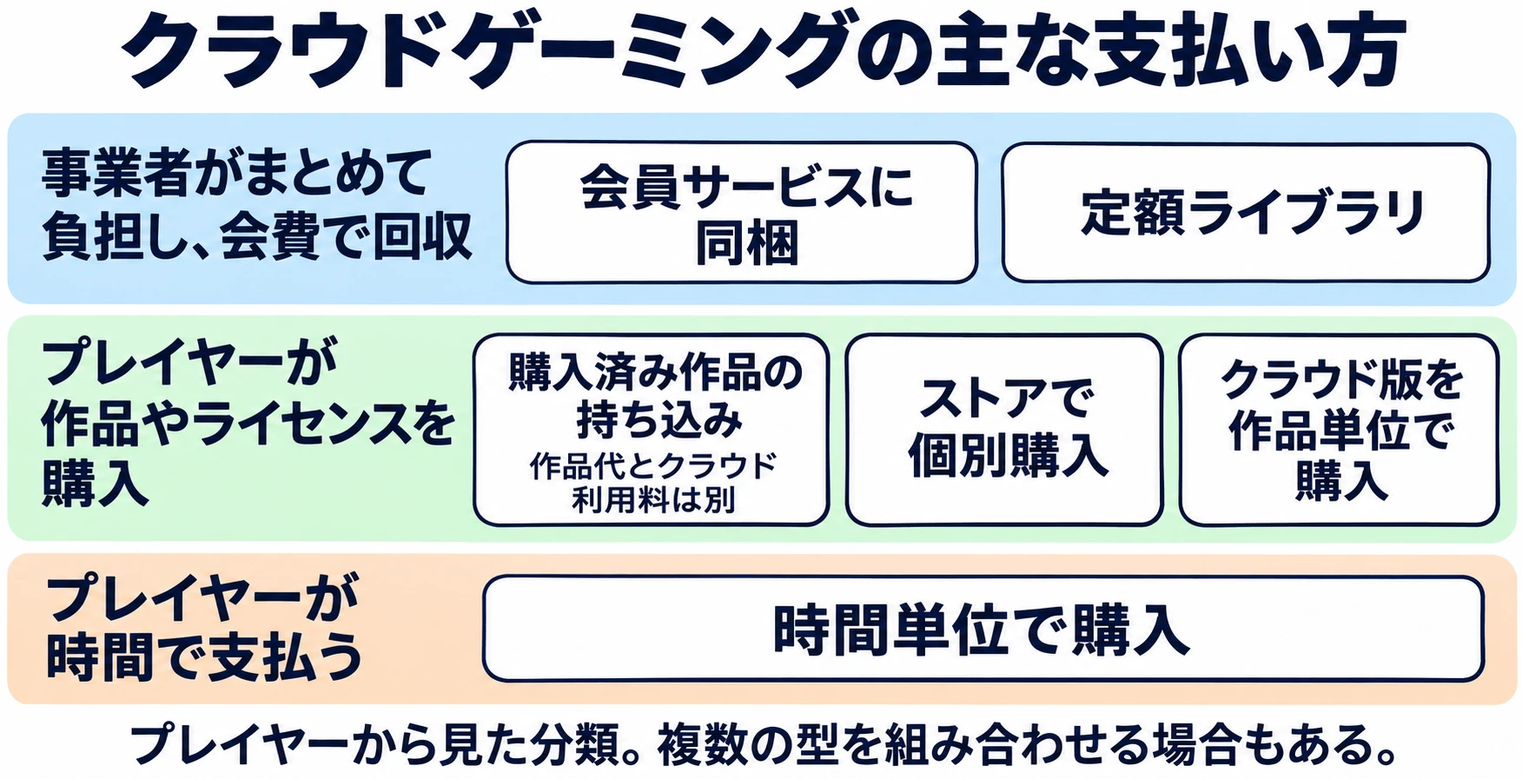
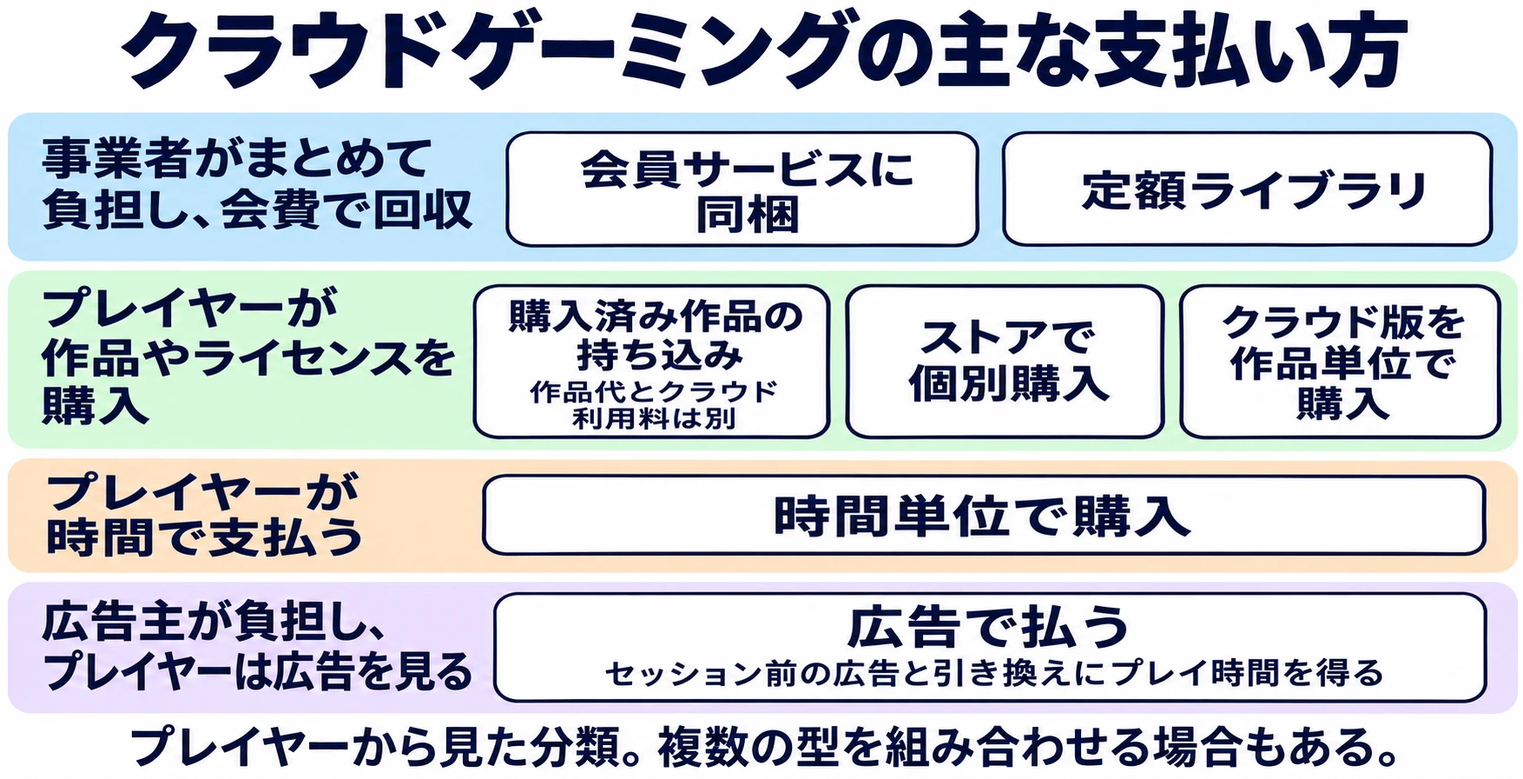
Xboxクラウドゲーミングの広告プランが発表されたので更新を行った

diff --git a/cloud-gaming-deep-dive-proofread.md b/cloud-gaming-deep-dive-proofread.md
@@ -8,7 +8,9 @@ difficulty: yellow
 
 > 2026年11月12日改版：記事全体を全面的に書き直しました。内容の変更はGitの履歴から追えます。
 
-> 料金・プラン・提供状況は2026年11月時点の情報です。
+> 2026年11月13日更新：Xboxの広告付きクラウドゲーミングの発表を反映しました。
+
+> 料金・プラン・提供状況は2026年11月13日時点の情報です。
 
 ## 1. はじめに
 
@@ -50,42 +52,53 @@ HoYoverseの『Genshin Impact · Cloud』では、有料の残高から支払う
 
 日本では、同じHoYoverseの『ゼンレスゾーンゼロ』クラウド版が2026年2月6日に正式リリースされた。配信時の案内では初回ログインで10時間の体験時間が付与され、30日分のフリーパスは2,600円だった。作品内の課金とは別に、クラウドで遊ぶ時間や期間に料金を設定した例である。[[16](#ref-16)]
 
-![クラウドゲーミングの六つの課金方式を、会費で回収する型、作品やライセンスを購入する型、時間で支払う型に整理した図。購入済み作品の持ち込みでは作品代とクラウド利用料が別になる](image/cloud-gaming-payment-models.webp)
+### 広告で払う
 
-六つの型は、プレイヤーから見て何に代金を払うかで分けたものだ。会費と作品代、定額と時間枠のように、複数の型を組み合わせるサービスもある。事業者間で費用をどう分けるかは、購入画面からは分からない。
+プレイヤーが代金の代わりに広告を見て、遊ぶ時間を得る型もある。GeForce NOWの無料会員は、ゲームを選んだ後、各セッションの開始前に最長2分のビデオ広告を見る。広告はプレイ中には表示されない。[[6](#ref-6)]
+
+Xboxは2026年7月23日、Xbox Insider向けに、所有する一部の作品を広告付きで無料でストリーミングできる試験を始めた。1回のプレイは1時間までで、広告はプレイの前に流れる。11月12日には、Microsoftの広告事業が広告主向けに「XBOX Video for Brands」を発表した。スキップできない3分間の広告を見ると30分間プレイでき、Game Passへの加入は要らない。対象作品、提供地域、一般向けの開始日は示されておらず、日本で提供されるかも発表されていない。[[17](#ref-17)][[18](#ref-18)][[19](#ref-19)]
+
+この型では、サーバー代の一部を広告主が負担し、プレイヤーは広告を見る時間で支払う。
+
+![クラウドゲーミングの七つの課金方式を、会費で回収する型、作品やライセンスを購入する型、時間で支払う型、広告で払う型に整理した図。購入済み作品の持ち込みでは作品代とクラウド利用料が別になる](image/cloud-gaming-payment-models.webp)
+
+七つの型は、プレイヤーから見て何に代金を払うかで分けたものだ。会費と作品代、定額と時間枠のように、複数の型を組み合わせるサービスもある。事業者間で費用をどう分けるかは、購入画面からは分からない。
 
 | 型と例 | 誰が何にいくら払うか | プレイ時間の上限・利用期限 |
 | --- | --- | --- |
-| 会員サービスに同梱（PS Plus プレミアム） | プレイヤーが会員特典一式に月1,550円（日本、1か月利用権）[[17](#ref-17)]。購入済み作品を使う場合の作品代は別 | 公式プラン案内に月間枠の記載なし。会員資格が必要 [[3](#ref-3)] |
-| 定額ライブラリ（Game Pass） | プレイヤーがカタログなどに月会費。日本ではEssentialが850円、Premiumが1,300円、Ultimateが1,550円 | 通常3プランに月間枠あり。追加時間は別売り [[18](#ref-18)][[19](#ref-19)] |
+| 会員サービスに同梱（PS Plus プレミアム） | プレイヤーが会員特典一式に月1,550円（日本、1か月利用権）[[20](#ref-20)]。購入済み作品を使う場合の作品代は別 | 公式プラン案内に月間枠の記載なし。会員資格が必要 [[3](#ref-3)] |
+| 定額ライブラリ（Game Pass） | プレイヤーがカタログなどに月会費。日本ではEssentialが850円、Premiumが1,300円、Ultimateが1,550円 | 通常3プランに月間枠あり。追加時間は別売り [[21](#ref-21)][[22](#ref-22)] |
 | 購入済み作品の持ち込み（GeForce NOW） | プレイヤーが作品代を外部ストアに、クラウドの有料会費をNVIDIAに支払う。日本でのUltimate提供開始時は月3,580円。無料プランもある | PerformanceとUltimateは月100時間。1回の接続にもプラン別の上限がある [[6](#ref-6)][[7](#ref-7)] |
 | 個別購入（Stadia、終了済み） | プレイヤーがStadiaストアに作品ごとの代金を支払う。Proは任意で、カナダ向け公式ブログでは月9.99ドル | 当時の購入案内に月間枠の記載なし。サービス終了で配信終了 [[8](#ref-8)] |
 | 作品単位（Switch向けクラウド版） | プレイヤーが作品ごとの代金を支払う。『バイオハザード7』の180日券は2,000円。『キングダム ハーツ』の単品は発売時5,280円から | 『バイオハザード7』の旧券は180日の有効期限。『キングダム ハーツ』は販売終了後のプレイ期限あり [[10](#ref-10)][[11](#ref-11)][[12](#ref-12)] |
 | 時間単位（Genshin Impact · Cloud） | プレイヤーが有料分を1分10 Cloud Coinsで支払う。Cloud Passも選べる | 無料時間・コイン残高またはパスの有効期間による [[13](#ref-13)] |
+| 広告付き（GeForce NOWの無料プラン、Xboxの広告付きクラウド） | プレイヤーは代金の代わりに、セッション前の広告を見る。広告主が広告枠に支払う | GeForce NOWは広告が最長2分。Xboxは3分の広告で30分（広告主向けの発表。一般向けの開始日は未発表） [[6](#ref-6)][[18](#ref-18)] |
 
 ***
 
 ## 3. 2025〜2026年、「無制限」が後退した
 
-**GeForce NOW** は2025年9月10日、Ultimate向けにGeForce RTX 5080クラスのサーバーを順次導入し始めた。一方、PerformanceとUltimateの定額料金に含まれるプレミアム利用時間は月100時間となった。未使用分は最大15時間を翌月に繰り越せ、超過分は15時間単位で追加購入できる。[[6](#ref-6)][[20](#ref-20)][[21](#ref-21)]
+**GeForce NOW** は2025年9月10日、Ultimate向けにGeForce RTX 5080クラスのサーバーを順次導入し始めた。一方、PerformanceとUltimateの定額料金に含まれるプレミアム利用時間は月100時間となった。未使用分は最大15時間を翌月に繰り越せ、超過分は15時間単位で追加購入できる。[[6](#ref-6)][[23](#ref-23)][[24](#ref-24)]
 
-月間枠は2025年から導入され、対象の既存会員には2026年1月まで無制限で使える経過措置があった。NVIDIAの現行FAQでは、無制限の旧プランの権利を持つ会員の移行時期を、2026年1月15日以降の最初の請求日としている。基本のFounders会員には、資格を維持する限り無制限の例外もある。NVIDIAは月間枠を導入した理由として、品質や応答性を保ち、待ち時間を短くすることを挙げている。[[6](#ref-6)][[21](#ref-21)]
+月間枠は2025年から導入され、対象の既存会員には2026年1月まで無制限で使える経過措置があった。NVIDIAの現行FAQでは、無制限の旧プランの権利を持つ会員の移行時期を、2026年1月15日以降の最初の請求日としている。基本のFounders会員には、資格を維持する限り無制限の例外もある。NVIDIAは月間枠を導入した理由として、品質や応答性を保ち、待ち時間を短くすることを挙げている。[[6](#ref-6)][[24](#ref-24)]
 
-**Amazon Luna** は2026年4月10日、ゲームストア、個別購入、他社サブスクリプションの取り扱いを終了した。購入済みの対象作品や持ち込んだ外部ライブラリは6月10日までLunaで遊べた。ここで変わったのは、外部ストアで持っているゲームをLunaの実行枠で遊べる範囲である。[[22](#ref-22)][[23](#ref-23)][[24](#ref-24)]
+**Amazon Luna** は2026年4月10日、ゲームストア、個別購入、他社サブスクリプションの取り扱いを終了した。購入済みの対象作品や持ち込んだ外部ライブラリは6月10日までLunaで遊べた。ここで変わったのは、外部ストアで持っているゲームをLunaの実行枠で遊べる範囲である。[[25](#ref-25)][[26](#ref-26)][[27](#ref-27)]
 
-**Xbox** は2026年11月からGame Passの通常3プランに月間クラウド時間枠を設けた。日本のXbox公式ストアにも時間枠が表示されている。Xboxの発表では、枠を使い切った後は追加時間を購入できる。Xboxは、利用者が増え、プレイが長くなるほど提供コストが増えると説明している。会員資格を持たない人が時間を買う仕組みも発表され、10月にはInsider向けに試験提供が始まった。プランごとの枠と作品を供給する側への影響は [「Xbox」はいま、いくつの器を指しているのか](xbox-multiple-containers-and-game-pass-supplier-decisions.md) で扱う。[[18](#ref-18)][[19](#ref-19)][[25](#ref-25)]
+**Xbox** は2026年11月からGame Passの通常3プランに月間クラウド時間枠を設けた。日本のXbox公式ストアにも時間枠が表示されている。Xboxの発表では、枠を使い切った後は追加時間を購入できる。Xboxは、利用者が増え、プレイが長くなるほど提供コストが増えると説明している。会員資格を持たない人が時間を買う仕組みも発表され、10月にはInsider向けに試験提供が始まった。プランごとの枠と作品を供給する側への影響は [「Xbox」はいま、いくつの器を指しているのか](xbox-multiple-containers-and-game-pass-supplier-decisions.md) で扱う。[[21](#ref-21)][[22](#ref-22)][[28](#ref-28)]
 
 三つの変更が重なったことで、クラウド利用の条件がどこで決まるかが見えやすくなった。GeForce NOWとXboxは、会費で遊べる時間に枠を置き、さらに遊ぶ人から追加料金を受け取る。Lunaは、外部ライブラリにクラウドの実行枠を提供する仕組みを閉じた。時間枠を設けると、事業者は会費に含める利用量を定められ、プレイヤーは残り時間や追加料金を考えて遊ぶことになる。毎月の支払いが同じでも、遊ぶ時間の長い人ほどこの変更の影響を受けやすい。
+
+一方でXboxは、時間枠を導入した同じ11月に、会費を払わずに広告を見て遊ぶ経路も広告主向けに発表した。編者には、遊ぶ時間を会費、追加購入、広告のどれで賄うかを、プレイヤーごとに選ばせる形へ近づいているように見える。[[18](#ref-18)]
 
 ***
 
 ## 4. サービスが終わるとき、購入者に何が残るか
 
-**Stadiaでは返金が行われた。** Googleは2022年9月29日に終了を発表し、2023年1月18日にサービスを終えた。Google Storeで購入した対象のハードウェアと、Stadiaストアで購入した作品や追加コンテンツが返金対象となった。Stadia Proの会費は返金対象外だった。[[26](#ref-26)][[27](#ref-27)]
+**Stadiaでは返金が行われた。** Googleは2022年9月29日に終了を発表し、2023年1月18日にサービスを終えた。Google Storeで購入した対象のハードウェアと、Stadiaストアで購入した作品や追加コンテンツが返金対象となった。Stadia Proの会費は返金対象外だった。[[29](#ref-29)][[30](#ref-30)]
 
-**Lunaでは購入元のストアに作品が残った。** EA、Ubisoft、GOGなどのストアで買った作品は、Lunaでの配信終了後も購入元のサービスで利用できた。対象作品のセーブデータは6月10日の配信終了から90日間ダウンロードできた。Amazonの案内によれば、持ち出したデータが他のサービスで使えるかは作品や移行先に依存する。[[23](#ref-23)][[24](#ref-24)]
+**Lunaでは購入元のストアに作品が残った。** EA、Ubisoft、GOGなどのストアで買った作品は、Lunaでの配信終了後も購入元のサービスで利用できた。対象作品のセーブデータは6月10日の配信終了から90日間ダウンロードできた。Amazonの案内によれば、持ち出したデータが他のサービスで使えるかは作品や移行先に依存する。[[26](#ref-26)][[27](#ref-27)]
 
-**『キングダム ハーツ』では、割引購入とセーブの引き継ぎが用意された。** Switch向けクラウド版は2026年6月9日に販売を終了し、購入者は2027年6月9日までプレイできる。2026年10月8日には本体で動くSwitch 2版が発売され、『KINGDOM HEARTS -HD 1.5+2.5 ReMIX-』にはSwitch版も出た。クラウド版の所有者は対応するダウンロード版をニンテンドーeショップで割引購入し、セーブデータを引き継げる。移行先のダウンロード版は別途購入が必要で、パッケージ版は割引対象外である。[[28](#ref-28)][[29](#ref-29)]
+**『キングダム ハーツ』では、割引購入とセーブの引き継ぎが用意された。** Switch向けクラウド版は2026年6月9日に販売を終了し、購入者は2027年6月9日までプレイできる。2026年10月8日には本体で動くSwitch 2版が発売され、『KINGDOM HEARTS -HD 1.5+2.5 ReMIX-』にはSwitch版も出た。クラウド版の所有者は対応するダウンロード版をニンテンドーeショップで割引購入し、セーブデータを引き継げる。移行先のダウンロード版は別途購入が必要で、パッケージ版は割引対象外である。[[31](#ref-31)][[32](#ref-32)]
 
 購入した作品へのアクセス、支払った代金、プレイの進行状況は、それぞれ別に扱われる。返金で戻るのは代金であり、購入元に作品が残っても、続きから遊ぶにはセーブデータの互換性が要る。終了に向けた準備や告知は [サービス終了をどう設計するか](service-shutdown-design-and-practice.md) で扱う。
 
@@ -99,7 +112,7 @@ HoYoverseの『Genshin Impact · Cloud』では、有料の残高から支払う
 
 ### 1回のプレイをどこで区切れるか
 
-月間枠、1回の接続上限、再接続時の待ち行列は、それぞれ違う形でプレイに影響する。たとえばボス戦の直前しかセーブできない作品では、接続が切れると再び順番を待ち、戦闘をやり直すことになる。1回のプレイの長さとセーブまでの間隔を照らし合わせ、残り時間が少ない状態でも進行を保存できるか、切断後にどこから再開できるかを確認する。
+月間枠、1回の接続上限、再接続時の待ち行列は、それぞれ違う形でプレイに影響する。たとえばボス戦の直前しかセーブできない作品では、接続が切れると再び順番を待ち、戦闘をやり直すことになる。1回のプレイの長さとセーブまでの間隔を照らし合わせ、残り時間が少ない状態でも進行を保存できるか、切断後にどこから再開できるかを確認する。Xboxが広告主向けに発表した広告付きの経路では、1回の広告で遊べるのは30分である。30分の中で一区切りつく遊びがあるか、時間切れの前に保存できるかで、その経路で作品を試した人の印象は変わる。[[18](#ref-18)]
 
 ### どこで配信し、どこにつながるか
 
@@ -123,6 +136,7 @@ HoYoverseの『Genshin Impact · Cloud』では、有料の残高から支払う
 | ストアで個別購入 | 購入した権利がどのサービスにひも付くか。終了時に返金や別の版への移行を誰が扱うか |
 | クラウド版を作品単位で販売 | 利用券の有効期限と配信終了日はいつか。本体で動く版へ移る場合に、購入やセーブはどう扱われるか |
 | 時間単位で販売 | 時間の計測はいつ始まり、いつ止まるか。待機や切断が残高にどう影響し、時間切れの前に保存できるか |
+| 広告付き | 1回の広告で得られる時間の中に、遊びの区切りと保存の機会があるか。広告と待ち時間を合わせて、遊び始めるまでにどれくらいかかるか |
 
 ## References
 
@@ -190,57 +204,69 @@ HoYoverseの『Genshin Impact · Cloud』では、有料の残高から支払う
 
 [16]: https://automaton-media.com/articles/newsjp/zzz-20260130-414736/
 
-<a id="ref-17"></a>17. [GIGAZINE「プレステのオンラインゲームでは必須の有料サブスク「PlayStation Plus」が値上げ」][17] — GIGAZINE、2026年5月19日。日本の各プランの料金と、日本が値上げの対象外であることの確認に使用。
+<a id="ref-17"></a>17. [Team XBOX「Beginning Ad-supported Game Streaming Test & Learn」][17] — Xbox Wire、2026年7月23日。Xbox Insider向けの試験。
 
-[17]: https://gigazine.net/news/20260519-playstation-plus-price-raising
+[17]: https://news.xbox.com/en-us/2026/07/23/game-streaming-ad-supported-xbox-insiders/
 
-<a id="ref-18"></a>18. [Microsoft「XBOX Game Pass Essential — XBOX Game Pass Essential 1 か月間」][18] — Xbox公式ストア、2026年11月12日確認。通常3プランの日本での月額とクラウド時間枠。
+<a id="ref-18"></a>18. [Meredith Barrett「XBOX Video for Brands: A new way to get closer to play」][18] — Microsoft Advertising Blog、2026年11月12日。広告主向けの発表。3分間の広告で30分のプレイ、スキップ不可、Game Pass不要。対象作品・地域・開始日の記載なし。
 
-[18]: https://www.xbox.com/ja-JP/games/store/p/CFQ7TTC0K5DJ/000C
+[18]: https://about.ads.microsoft.com/en/blog/post/november-2026/xbox-video-for-brands-a-new-way-to-get-closer-to-play
 
-<a id="ref-19"></a>19. [Team XBOX「XBOX Cloud Gaming の今後の変更について」][19] — Xbox Wire Japan、2026年9月4日。
+<a id="ref-19"></a>19. [Hideaki Fujiwara「Xboxクラウドゲーミング、広告を見れば無料で遊べる仕組みが広告主向けに正式発表」][19] — AUTOMATON、2026年11月13日。
 
-[19]: https://news.xbox.com/ja-jp/2026/09/04/xbox-cloud-gaming-changes/
+[19]: https://automaton-media.com/articles/newsjp/20261113-479008/
 
-<a id="ref-20"></a>20. [GeForce NOW Community「Paint It Blackwell: GeForce RTX 5080 SuperPOD Rollout Begins」][20] — NVIDIA Blog、2025年9月10日。
+<a id="ref-20"></a>20. [GIGAZINE「プレステのオンラインゲームでは必須の有料サブスク「PlayStation Plus」が値上げ」][20] — GIGAZINE、2026年5月19日。日本の各プランの料金と、日本が値上げの対象外であることの確認に使用。
 
-[20]: https://blogs.nvidia.com/blog/geforce-now-thursday-blackwell-rtx-launch/
+[20]: https://gigazine.net/news/20260519-playstation-plus-price-raising
 
-<a id="ref-21"></a>21. [NVIDIA「GeForce NOW Performance へようこそ: Priority メンバーは即座にアップグレード」][21] — NVIDIAブログ、2024年11月。月間枠の当初発表と追加購入の単位。
+<a id="ref-21"></a>21. [Microsoft「XBOX Game Pass Essential — XBOX Game Pass Essential 1 か月間」][21] — Xbox公式ストア、2026年11月12日確認。通常3プランの日本での月額とクラウド時間枠。
 
-[21]: https://blogs.nvidia.co.jp/blog/geforce-now-thursday-performance-membership/
+[21]: https://www.xbox.com/ja-JP/games/store/p/CFQ7TTC0K5DJ/000C
 
-<a id="ref-22"></a>22. [Video Games Chronicle「Amazon Luna has stopped offering individual games and subscriptions from third-party stores」][22] — VGC、2026年4月10日。Amazonの案内を掲載。
+<a id="ref-22"></a>22. [Team XBOX「XBOX Cloud Gaming の今後の変更について」][22] — Xbox Wire Japan、2026年9月4日。
 
-[22]: https://www.videogameschronicle.com/news/amazon-luna-has-stopped-offering-individual-games-and-subscriptions-from-third-party-stores/
+[22]: https://news.xbox.com/ja-jp/2026/09/04/xbox-cloud-gaming-changes/
 
-<a id="ref-23"></a>23. [GOG「Important update: Amazon Luna on GOG」][23] — GOG公式、2026年4月。GOGライブラリの扱い。
+<a id="ref-23"></a>23. [GeForce NOW Community「Paint It Blackwell: GeForce RTX 5080 SuperPOD Rollout Begins」][23] — NVIDIA Blog、2025年9月10日。
 
-[23]: https://www.gog.com/en/news/important_update_amazon_luna_on_gog
+[23]: https://blogs.nvidia.com/blog/geforce-now-thursday-blackwell-rtx-launch/
 
-<a id="ref-24"></a>24. [Lincoln Carpenter「Amazon's Luna cloud gaming service is ending support for game purchases and subscriptions from third-party stores, and users will lose streaming access to purchased third-party games in June」][24] — PC Gamer、2026年4月10日。Amazonの案内に基づく報道。保存データのダウンロード期間と互換性。
+<a id="ref-24"></a>24. [NVIDIA「GeForce NOW Performance へようこそ: Priority メンバーは即座にアップグレード」][24] — NVIDIAブログ、2024年11月。月間枠の当初発表と追加購入の単位。
 
-[24]: https://www.pcgamer.com/software/platforms/amazons-luna-cloud-gaming-service-is-ending-support-for-game-purchases-and-subscriptions-from-third-party-stores-and-users-will-lose-streaming-access-to-purchased-third-party-games-in-june/
+[24]: https://blogs.nvidia.co.jp/blog/geforce-now-thursday-performance-membership/
 
-<a id="ref-25"></a>25. [Team XBOX「Cloud Playtime Now Available to Test with XBOX Insiders」][25] — Xbox Wire、2026年10月21日。
+<a id="ref-25"></a>25. [Video Games Chronicle「Amazon Luna has stopped offering individual games and subscriptions from third-party stores」][25] — VGC、2026年4月10日。Amazonの案内を掲載。
 
-[25]: https://news.xbox.com/en-us/2026/10/21/cloud-playtime-now-available-to-test-with-xbox-insiders/
+[25]: https://www.videogameschronicle.com/news/amazon-luna-has-stopped-offering-individual-games-and-subscriptions-from-third-party-stores/
 
-<a id="ref-26"></a>26. [Phil Harrison「A message about Stadia and our long term streaming strategy」][26] — The Keyword、2022年9月29日。
+<a id="ref-26"></a>26. [GOG「Important update: Amazon Luna on GOG」][26] — GOG公式、2026年4月。GOGライブラリの扱い。
 
-[26]: https://blog.google/products-and-platforms/products/stadia/message-on-stadia-streaming-strategy/
+[26]: https://www.gog.com/en/news/important_update_amazon_luna_on_gog
 
-<a id="ref-27"></a>27. [Google「Stadia Announcement FAQ」][27] — Stadia Help。返金対象とStadia Pro会費の扱い。
+<a id="ref-27"></a>27. [Lincoln Carpenter「Amazon's Luna cloud gaming service is ending support for game purchases and subscriptions from third-party stores, and users will lose streaming access to purchased third-party games in June」][27] — PC Gamer、2026年4月10日。Amazonの案内に基づく報道。保存データのダウンロード期間と互換性。
 
-[27]: https://support.google.com/stadia/answer/12790109?hl=en
+[27]: https://www.pcgamer.com/software/platforms/amazons-luna-cloud-gaming-service-is-ending-support-for-game-purchases-and-subscriptions-from-third-party-stores-and-users-will-lose-streaming-access-to-purchased-third-party-games-in-june/
 
-<a id="ref-28"></a>28. [スクウェア・エニックス「『KINGDOM HEARTS Switch Cloud Version』販売終了及びサービス終了のお知らせ(6/10)」][28] — スクウェア・エニックス サポートセンター、2026年6月10日。
+<a id="ref-28"></a>28. [Team XBOX「Cloud Playtime Now Available to Test with XBOX Insiders」][28] — Xbox Wire、2026年10月21日。
 
-[28]: https://support.jp.square-enix.com/news.php?drt=1781017200&id=19066&la=0&n=2&tag=ab4073e28135a1345b861beefd8b6a2c459e1ed4
+[28]: https://news.xbox.com/en-us/2026/10/21/cloud-playtime-now-available-to-test-with-xbox-insiders/
 
-<a id="ref-29"></a>29. [スクウェア・エニックス「KINGDOM HEARTS Collection [I〜III]」][29] — スクウェア・エニックス公式。発売日と対応機種。
+<a id="ref-29"></a>29. [Phil Harrison「A message about Stadia and our long term streaming strategy」][29] — The Keyword、2022年9月29日。
 
-[29]: https://www.jp.square-enix.com/kingdom/collection/
+[29]: https://blog.google/products-and-platforms/products/stadia/message-on-stadia-streaming-strategy/
+
+<a id="ref-30"></a>30. [Google「Stadia Announcement FAQ」][30] — Stadia Help。返金対象とStadia Pro会費の扱い。
+
+[30]: https://support.google.com/stadia/answer/12790109?hl=en
+
+<a id="ref-31"></a>31. [スクウェア・エニックス「『KINGDOM HEARTS Switch Cloud Version』販売終了及びサービス終了のお知らせ(6/10)」][31] — スクウェア・エニックス サポートセンター、2026年6月10日。
+
+[31]: https://support.jp.square-enix.com/news.php?drt=1781017200&id=19066&la=0&n=2&tag=ab4073e28135a1345b861beefd8b6a2c459e1ed4
+
+<a id="ref-32"></a>32. [スクウェア・エニックス「KINGDOM HEARTS Collection [I〜III]」][32] — スクウェア・エニックス公式。発売日と対応機種。
+
+[32]: https://www.jp.square-enix.com/kingdom/collection/
 
 ----
 
